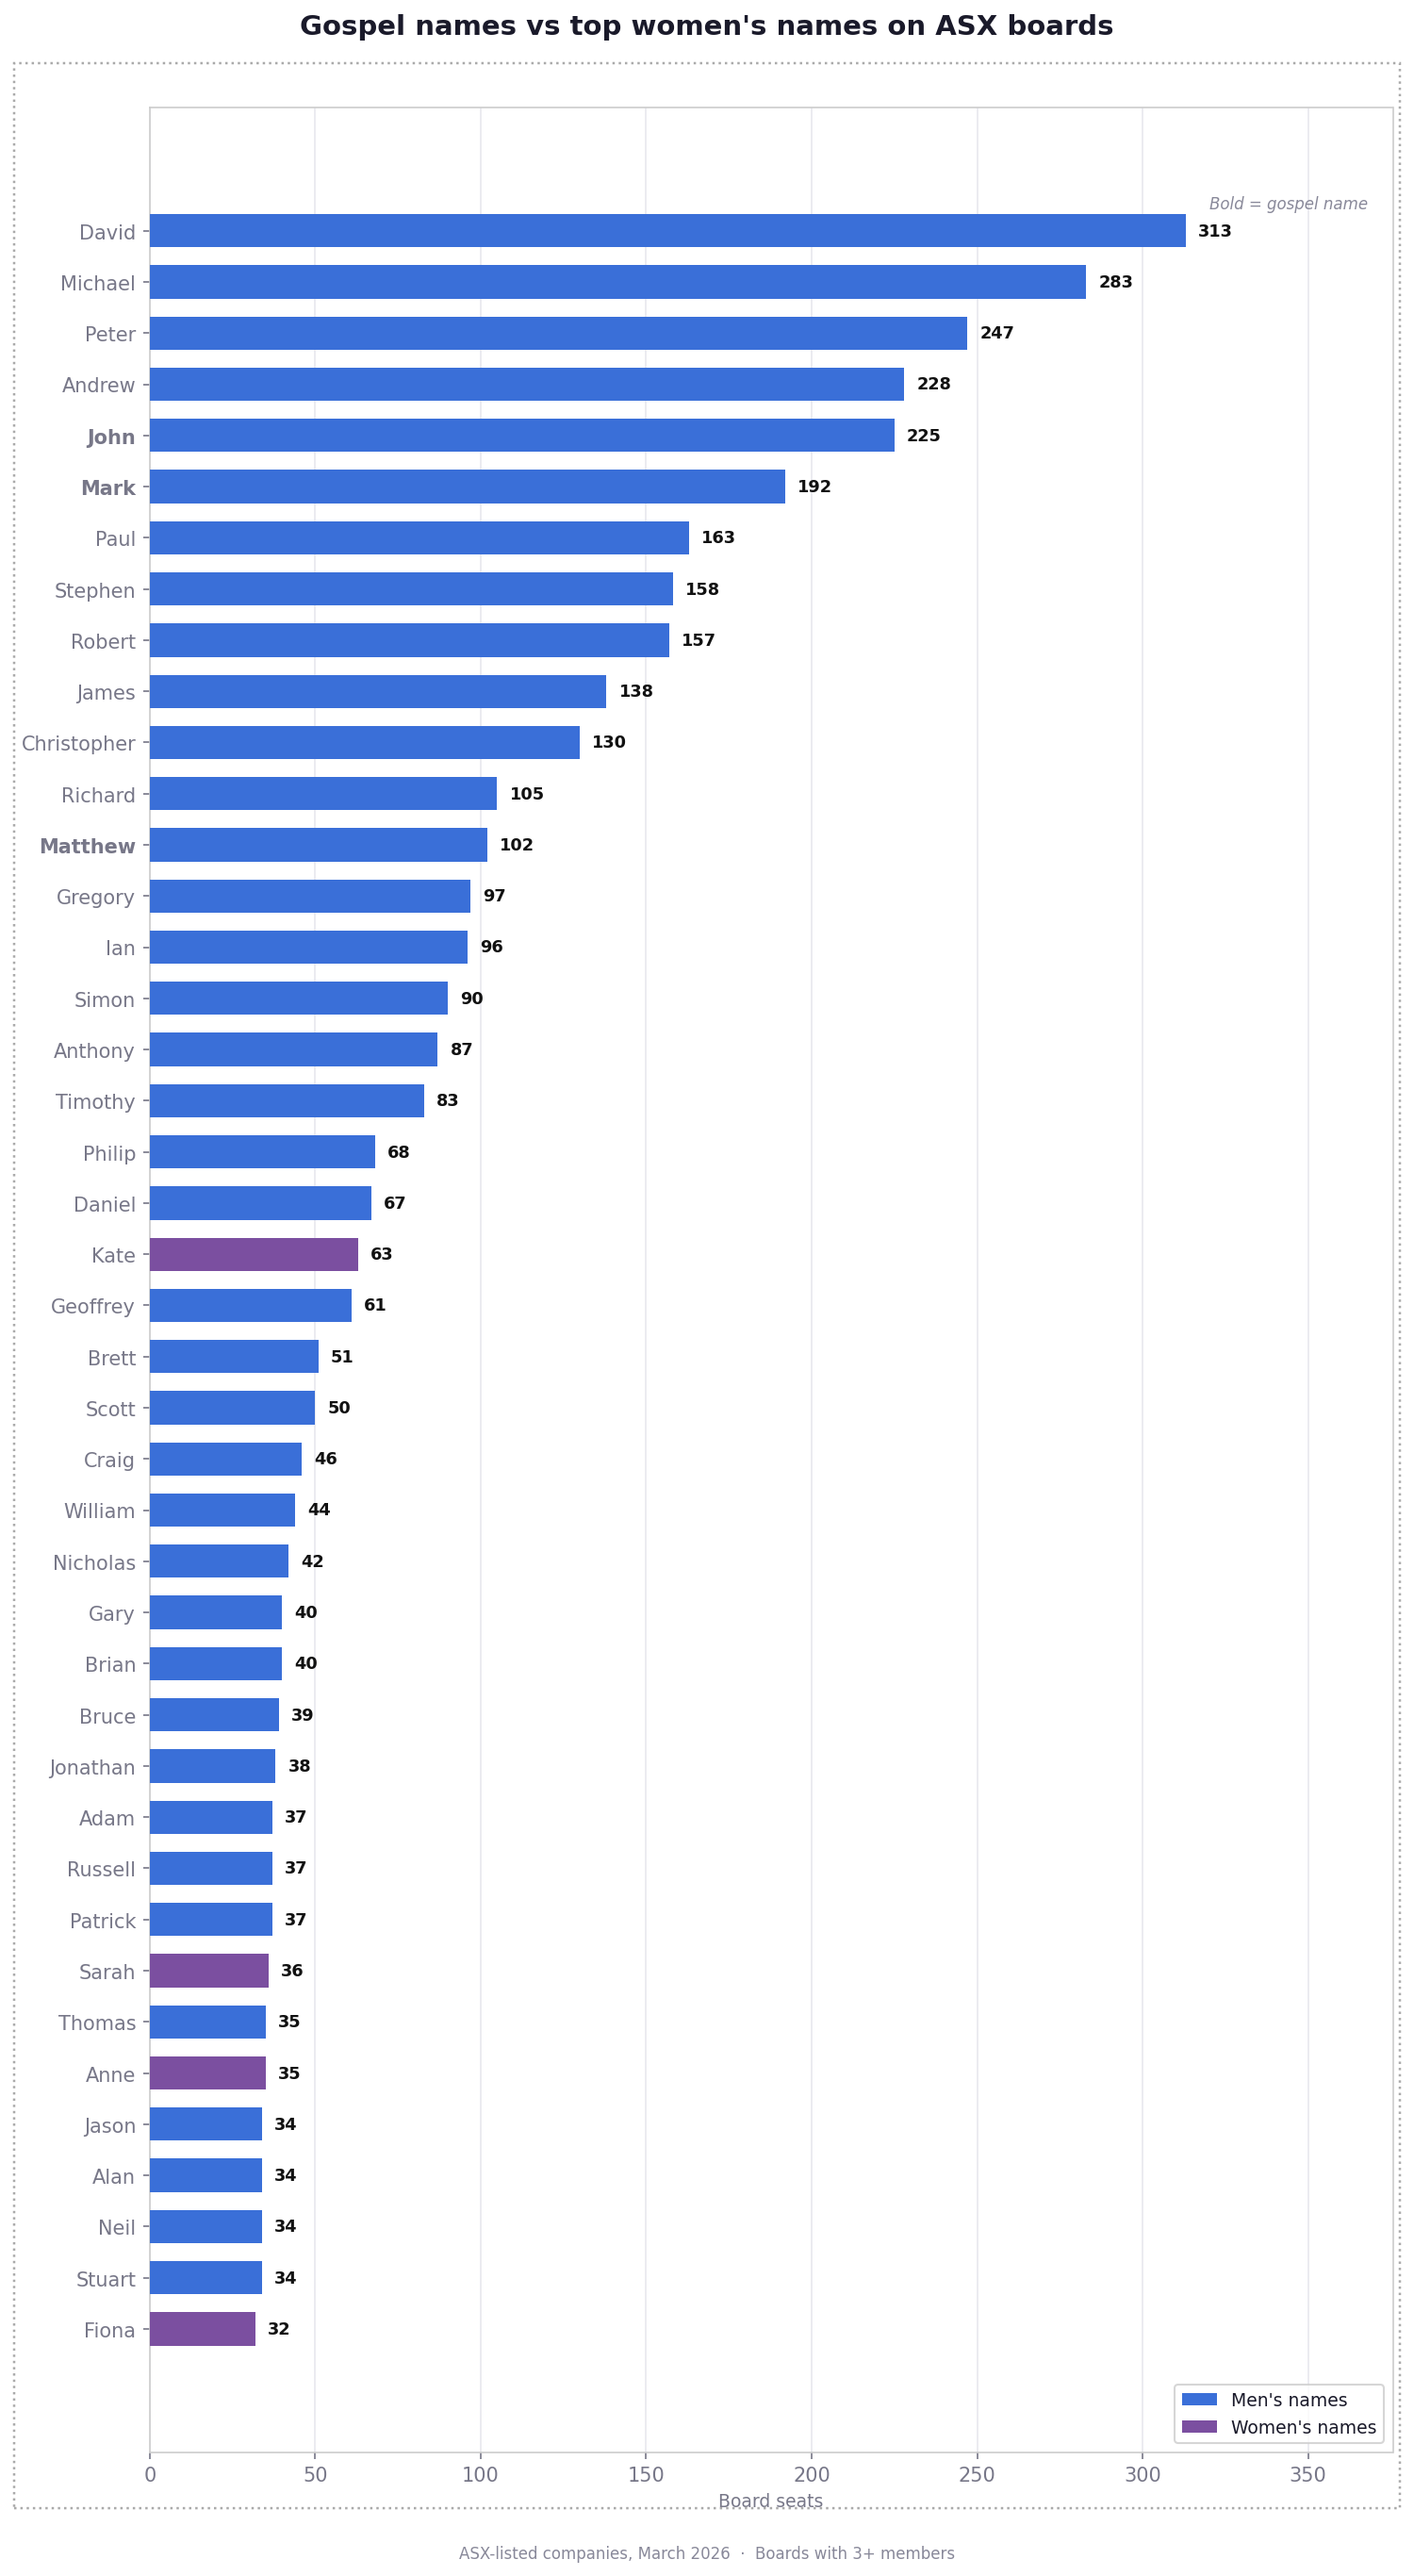
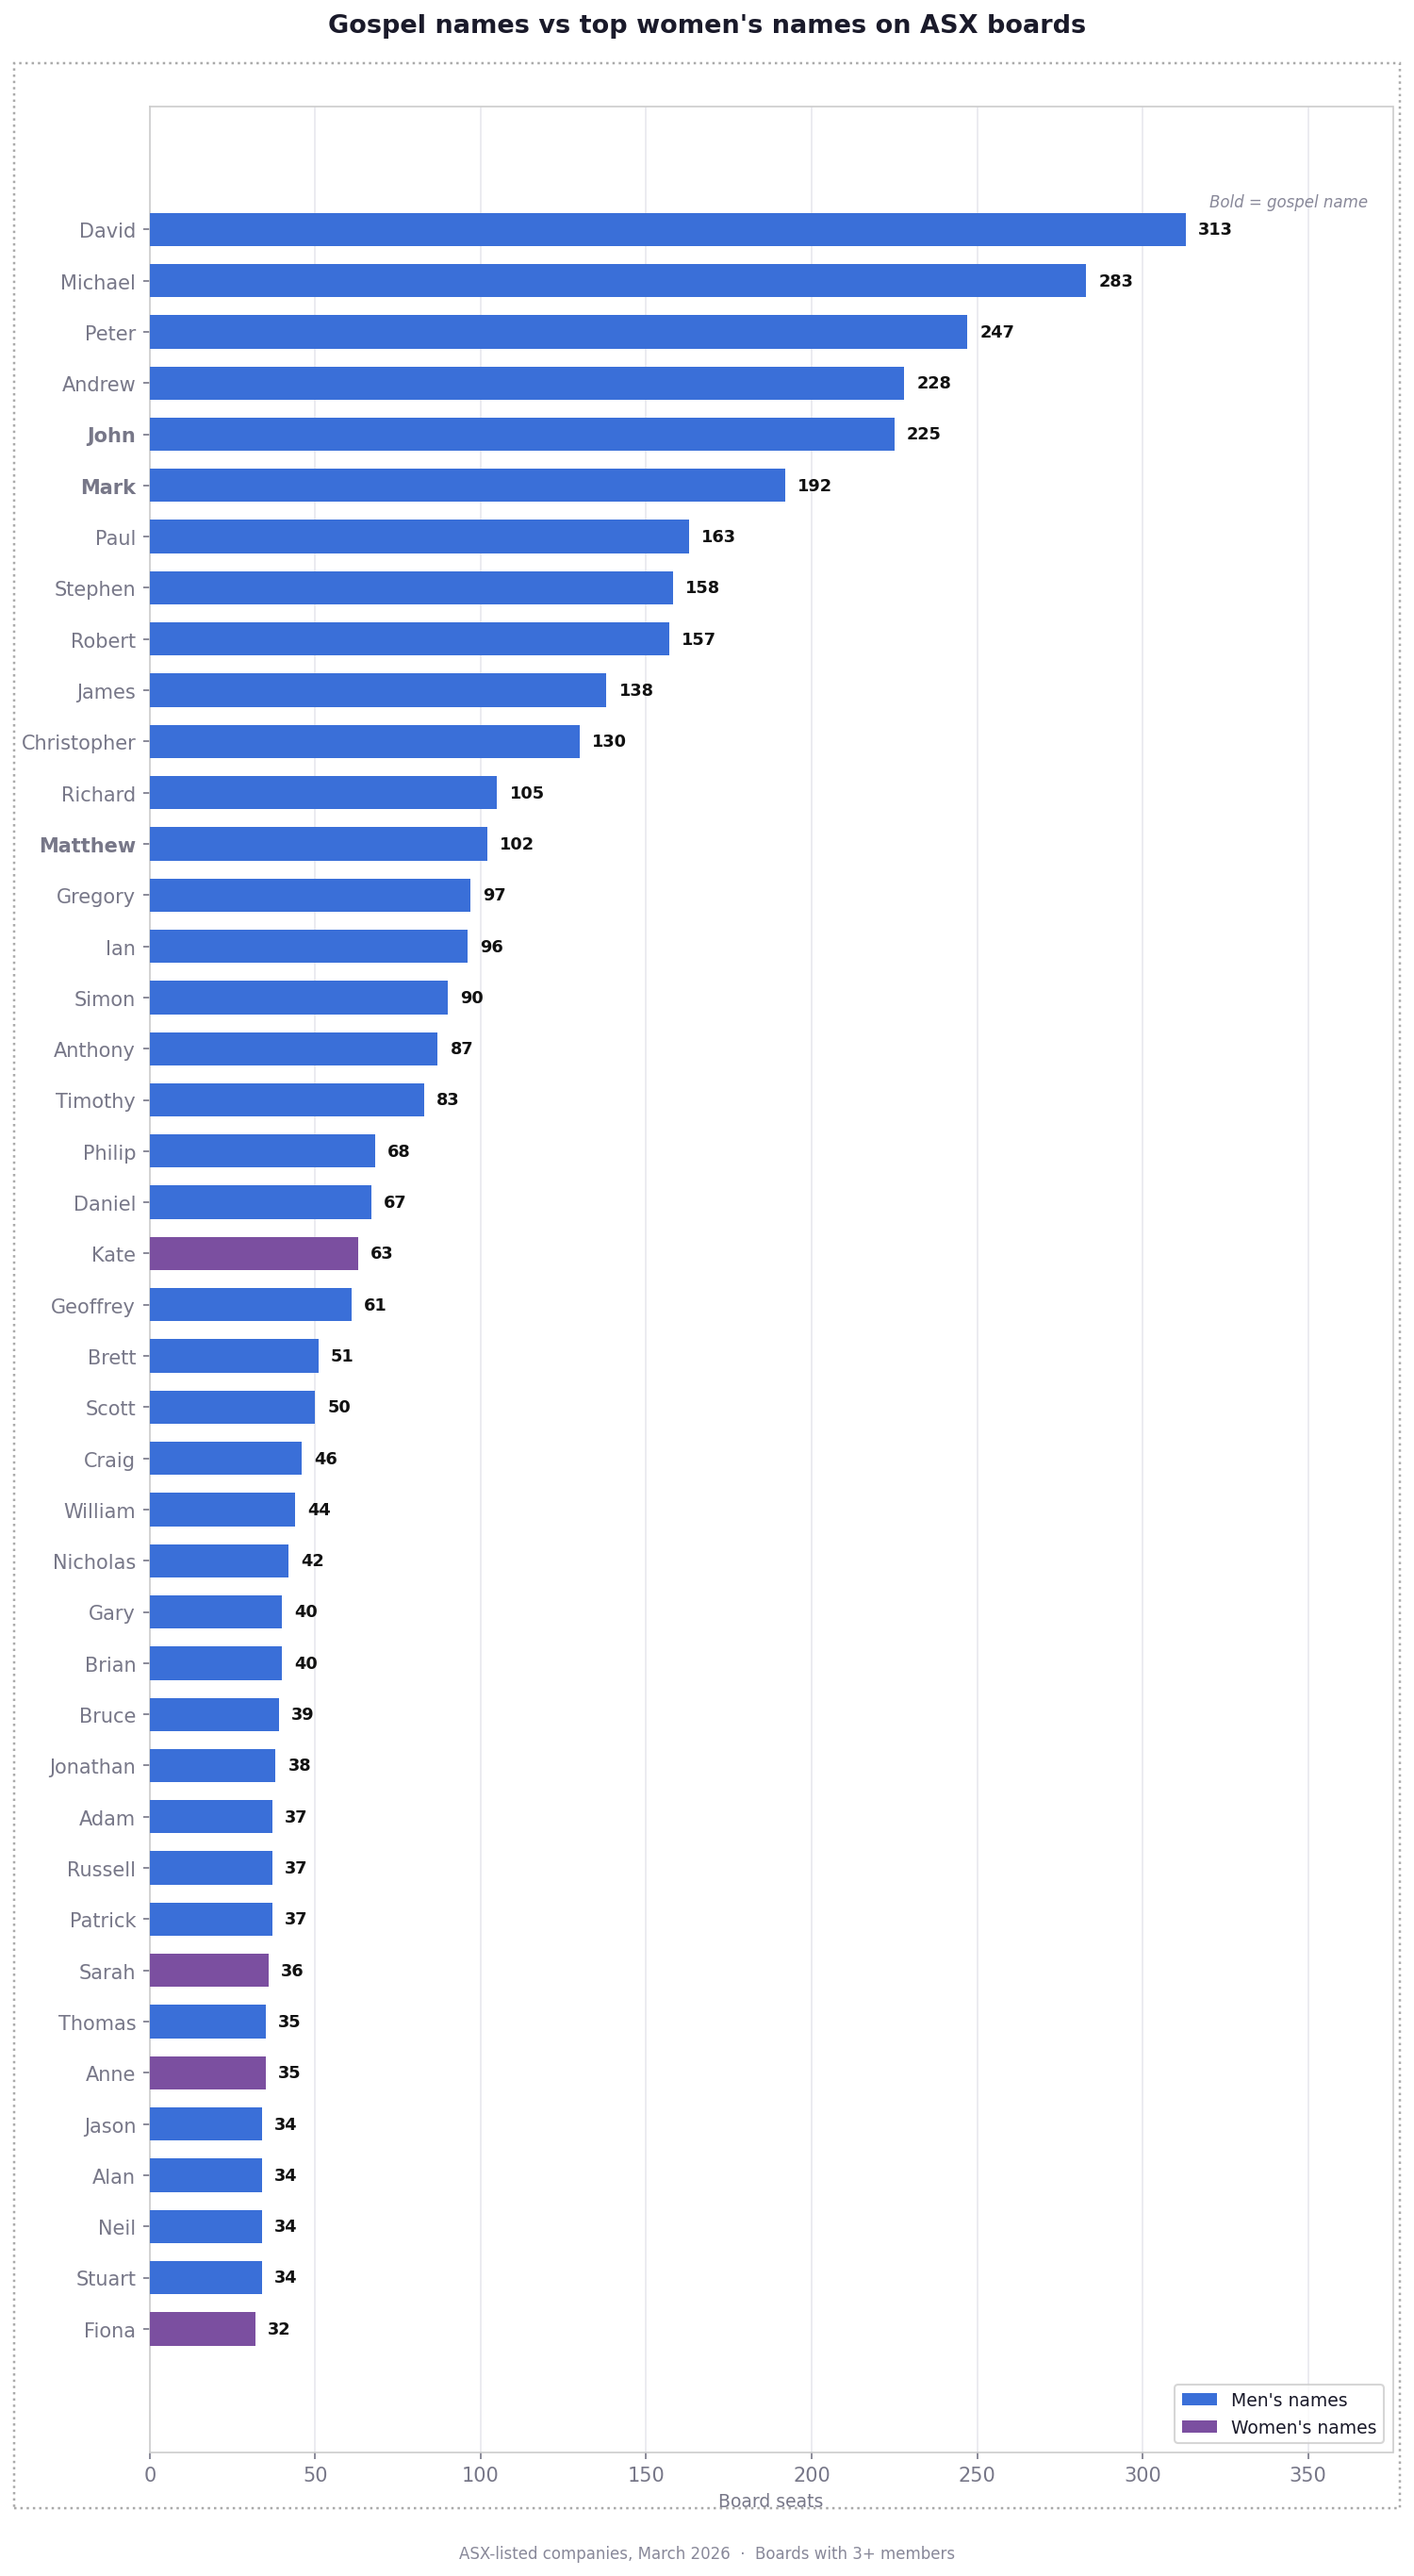
Standardise chart title font size to 13 across all charts; sync index.html title

diff --git a/index.html b/index.html
@@ -3,7 +3,7 @@
 <head>
 <meta charset="UTF-8">
 <meta name="viewport" content="width=device-width, initial-scale=1.0">
-<title>Matthew, Mark, Luke and John — the gospel of ASX boards</title>
+<title>Matthew, Mark, Luke and John — the gospel according to ASX</title>
 <style>
   body { font-family: Helvetica Neue, Arial, sans-serif; color: #333344; max-width: 860px; margin: 0 auto; padding: 2em 1.5em; font-size: 16px; line-height: 1.55; }
   h1 { font-size: 1.5em; font-weight: bold; margin: 0 0 0.8em; }
@@ -19,7 +19,7 @@
 </head>
 <body>
 
-<h1>Matthew, Mark, Luke and John &mdash; the gospel of ASX boards</h1>
+<h1>Matthew, Mark, Luke and John &mdash; the gospel according to ASX</h1>
 
 <p>Dr Seuss famously wrote about &ldquo;Too many Daves&rdquo;. But are there too many Daves on the board? Let&rsquo;s have a look.</p>
 

diff --git a/chart_boardroom.py b/chart_boardroom.py
@@ -131,7 +131,7 @@ def draw_boardroom(ax, chair_colors, cats, color_map, label_map, order, total_co
     # ── Title ─────────────────────────────────────────────────────────────────
     ax.text(0, 2.45, "The ASX Boardroom",
             ha="center", va="center", color="#1a1a2a",
-            fontsize=20, fontweight="bold")
+            fontsize=13, fontweight="bold")
     ax.text(0, 2.20, title_sub,
             ha="center", va="center", color="#9090bb", fontsize=9.5)
 

diff --git a/chart_boardroom_groups.py b/chart_boardroom_groups.py
@@ -212,7 +212,7 @@ def draw_chart():
     # ── Title ─────────────────────────────────────────────────────────────────
     ax.text(0, 3.05, "A seat at the table",
             ha="center", va="center", color="#1a1a2a",
-            fontsize=21, fontweight="bold")
+            fontsize=13, fontweight="bold")
     ax.text(0, 2.78,
             "Every ASX board seat, represented as 36 chairs",
             ha="center", va="center", color="#9090bb", fontsize=9.5)

diff --git a/chart_boardroom_names.py b/chart_boardroom_names.py
@@ -208,7 +208,7 @@ def draw_chart():
     # ── Title ─────────────────────────────────────────────────────────────────
     ax.text(0, 2.62, "A seat at the table",
             ha="center", va="center", color="#1a1a2a",
-            fontsize=20, fontweight="bold")
+            fontsize=13, fontweight="bold")
     ax.text(0, 2.38,
             "Every ASX board seat, represented as 28 chairs",
             ha="center", va="center", color="#9090bb", fontsize=9.5)

diff --git a/chart_gospel_women.py b/chart_gospel_women.py
@@ -103,7 +103,7 @@ def save_chart(output_path, names, counts, gospel_set, female_names_set, title):
     draw(ax, names, counts, gospel_set, MALE_COLOR, FEMALE_COLOR,
          female_names_set, max_x, title)
 
-    fig.suptitle(title, color="#1a1a2a", fontsize=14, fontweight="bold", y=1.01)
+    fig.suptitle(title, color="#1a1a2a", fontsize=13, fontweight="bold", y=1.01)
     fig.text(0.5, -0.01,
              "ASX-listed companies, March 2026  ·  Boards with 3+ members",
              ha="center", color="#888899", fontsize=8)

diff --git a/chart_top_names.py b/chart_top_names.py
@@ -70,7 +70,7 @@ def draw():
               labelcolor="#1a1a2a", fontsize=9)
 
     fig.suptitle(f"Most common first names on ASX boards  —  top {TOP_N}",
-                 color="#1a1a2a", fontsize=14, fontweight="bold", y=1.01)
+                 color="#1a1a2a", fontsize=13, fontweight="bold", y=1.01)
     fig.text(0.5, -0.01,
              "ASX-listed companies, March 2026  ·  Boards with 3+ members  ·  "
              "Gender inferred from name prefix (Mr / Ms / Mrs / Miss)",

diff --git a/chart_names_comparison.py b/chart_names_comparison.py
@@ -95,7 +95,7 @@ def draw_chart(rows, max_x, total, output_path, legend_entries, subtitle, title=
 
     ax.set_title(
         title,
-        color="#1a1a2a", fontsize=15, fontweight="bold", pad=14,
+        color="#1a1a2a", fontsize=13, fontweight="bold", pad=14,
     )
     fig.text(0.5, -0.04, subtitle,
              ha="center", color="#666677", fontsize=9, style="italic")
